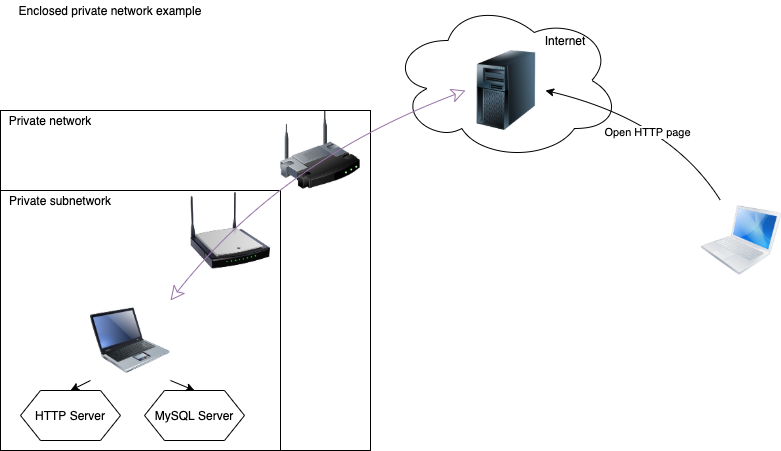
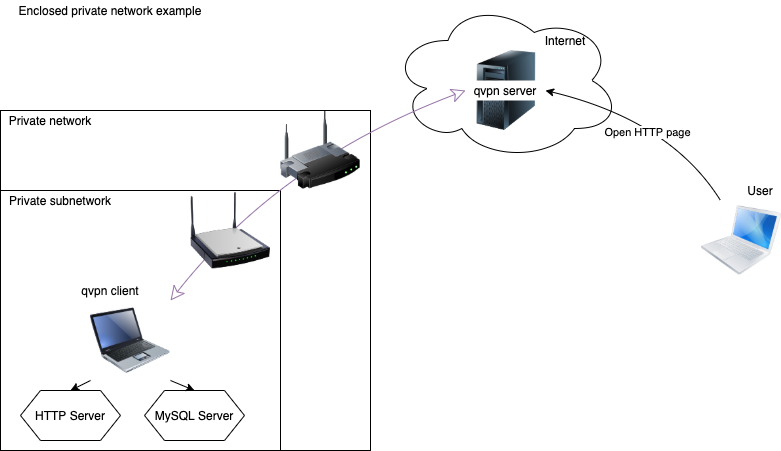
Updated readme

diff --git a/README.md b/README.md
@@ -1,6 +1,8 @@
 # Quasi VPN
 
-VPN is a virtual private network. An extended private network through public network.
+VPN is a virtual private network. An extended private network through public network.<br>
 QVPN client application allows you to expose some of services running in localnetwork to public via QVPN server.
 
 ![qvpn_example](./docs/qvpn_example.png)
+
+On the example picture above, qvpn client is being run exposing HTTP server and MySQL server (just for demo).<br>
